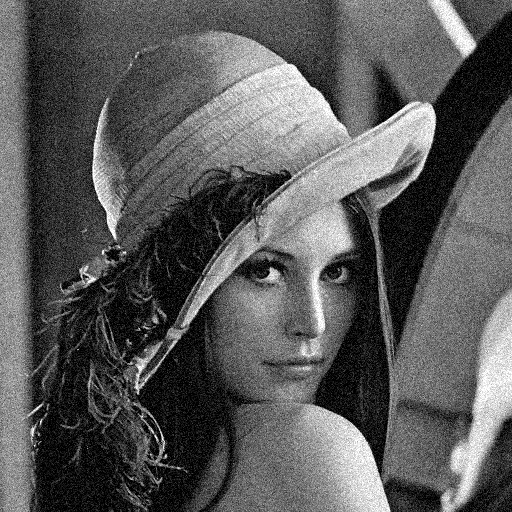
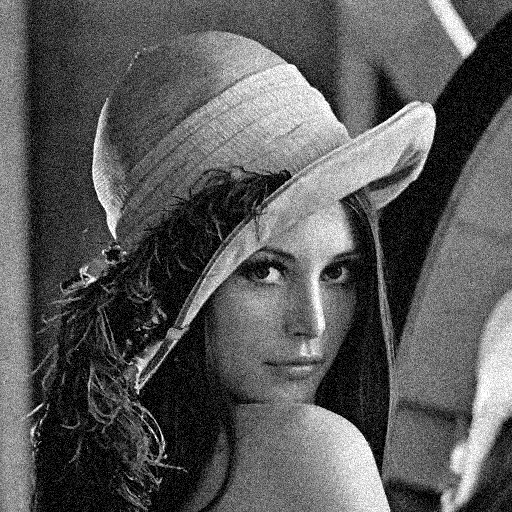
resolution probleme seuillage + evaluation

diff --git a/src/application/Application.java b/src/application/Application.java
@@ -116,9 +116,21 @@ public class Application {
             double mse = eval.mse(x0, xR);
             double psnr = eval.psnr(x0, xR);
             
-            System.out.println("\n=== Résultats d'évaluation ===");
-            System.out.println("MSE : " + mse);
-            System.out.println("PSNR: " + psnr + " dB");
+            System.out.println("\n📊 ÉVALUATION DE LA QUALITÉ 📊");
+     		System.out.println("━━━━━━━━━━━━━━━━━━━━━━━━━━━━━━━━━━━━━━━━━━");
+     		System.out.println("📉 MSE  : " + String.format("%.2f", mse));
+     		System.out.println("📈 PSNR : " + String.format("%.2f", psnr) + " dB");
+
+     		if (psnr < 20) {
+     			System.out.println("🔴 Qualité faible - Débruitage limité");
+     		} else if (psnr < 25) {
+     			System.out.println("🟠 Qualité moyenne - Débruitage acceptable");
+     		} else if (psnr < 30) {
+     			System.out.println("🟢 Bonne qualité - Débruitage efficace");
+     		} else {
+     			System.out.println("🔵 Excellente qualité - Débruitage optimal");
+     		}
+     		System.out.println("━━━━━━━━━━━━━━━━━━━━━━━━━━━━━━━━━━━━━━━━━━");
             
         } catch (Exception e) {
             System.err.println("Erreur lors du traitement: " + e.getMessage());
@@ -145,14 +157,52 @@ public class Application {
          xB.saveImg("data/xB/" + imageName);
 
          // Débruitage GLOBAL
-         Img xRGlobal = dImg.imageDen(xB, "VisuShrink", "Dur", sigma, 7, false);
+         Img xRGlobal = dImg.imageDen(xB, "BayesShrink", "Doux", sigma, 7, false);
          xRGlobal.saveImg("data/xR/global_" + imageName);
+         
+       //Évaluer les résultats
+ 		double mseValue = eval.mse(x0, xRGlobal);
+ 		double psnrValue = eval.psnr(x0, xRGlobal);
+
+ 		System.out.println("\n📊 ÉVALUATION DE LA QUALITÉ 📊");
+ 		System.out.println("━━━━━━━━━━━━━━━━━━━━━━━━━━━━━━━━━━━━━━━━━━");
+ 		System.out.println("📉 MSE  : " + String.format("%.2f", mseValue));
+ 		System.out.println("📈 PSNR : " + String.format("%.2f", psnrValue) + " dB");
+
+ 		if (psnrValue < 20) {
+ 			System.out.println("🔴 Qualité faible - Débruitage limité");
+ 		} else if (psnrValue < 25) {
+ 			System.out.println("🟠 Qualité moyenne - Débruitage acceptable");
+ 		} else if (psnrValue < 30) {
+ 			System.out.println("🟢 Bonne qualité - Débruitage efficace");
+ 		} else {
+ 			System.out.println("🔵 Excellente qualité - Débruitage optimal");
+ 		}
+ 		System.out.println("━━━━━━━━━━━━━━━━━━━━━━━━━━━━━━━━━━━━━━━━━━");
 
          // Débruitage LOCAL
-         Img xRLocal = dImg.imageDen(xB, "VisuShrink", "Doux", sigma, 7, true);
+         Img xRLocal = dImg.imageDen(xB, "BayesShrink", "Doux", sigma, 7, true);
          xRLocal.saveImg("data/xR/local_" + imageName);
 
-         
+       //Évaluer les résultats
+  		mseValue = eval.mse(x0, xRLocal);
+  		psnrValue = eval.psnr(x0, xRLocal);
+
+  		System.out.println("\n📊 ÉVALUATION DE LA QUALITÉ 📊");
+  		System.out.println("━━━━━━━━━━━━━━━━━━━━━━━━━━━━━━━━━━━━━━━━━━");
+  		System.out.println("📉 MSE  : " + String.format("%.2f", mseValue));
+  		System.out.println("📈 PSNR : " + String.format("%.2f", psnrValue) + " dB");
+
+  		if (psnrValue < 20) {
+  			System.out.println("🔴 Qualité faible - Débruitage limité");
+  		} else if (psnrValue < 25) {
+  			System.out.println("🟠 Qualité moyenne - Débruitage acceptable");
+  		} else if (psnrValue < 30) {
+  			System.out.println("🟢 Bonne qualité - Débruitage efficace");
+  		} else {
+  			System.out.println("🔵 Excellente qualité - Débruitage optimal");
+  		}
+  		System.out.println("━━━━━━━━━━━━━━━━━━━━━━━━━━━━━━━━━━━━━━━━━━");
     }
     
     
@@ -337,9 +387,21 @@ public class Application {
             double mse = eval.mse(x0, xR);
             double psnr = eval.psnr(x0, xR);
             
-            System.out.println("\n=== Résultats d'évaluation ===");
-            System.out.println("MSE : " + mse);
-            System.out.println("PSNR: " + psnr + " dB");
+            System.out.println("\n📊 ÉVALUATION DE LA QUALITÉ 📊");
+     		System.out.println("━━━━━━━━━━━━━━━━━━━━━━━━━━━━━━━━━━━━━━━━━━");
+     		System.out.println("📉 MSE  : " + String.format("%.2f", mse));
+     		System.out.println("📈 PSNR : " + String.format("%.2f", psnr) + " dB");
+
+     		if (psnr < 20) {
+     			System.out.println("🔴 Qualité faible - Débruitage limité");
+     		} else if (psnr < 25) {
+     			System.out.println("🟠 Qualité moyenne - Débruitage acceptable");
+     		} else if (psnr < 30) {
+     			System.out.println("🟢 Bonne qualité - Débruitage efficace");
+     		} else {
+     			System.out.println("🔵 Excellente qualité - Débruitage optimal");
+     		}
+     		System.out.println("━━━━━━━━━━━━━━━━━━━━━━━━━━━━━━━━━━━━━━━━━━");
             
         } catch (Exception e) {
             System.err.println("Erreur lors du traitement: " + e.getMessage());

diff --git a/src/service/seuillage/ProcesseurSeuillage.java b/src/service/seuillage/ProcesseurSeuillage.java
@@ -38,13 +38,22 @@ public class ProcesseurSeuillage {
      * @param gamma Matrice contenant des informations sur la covariance des coefficients.
      * @return La valeur du seuil calculée.
      */
-    public double seuilB(Img Xb , double sigma, Matrice gamma) {
-        double sigmaXb = gamma.SommeDiagonale();  //on recupere la variance de l'image Xb sans tout recalculé
-        double sigmaCarre = sigma * sigma;
-        double sigmaXbCarre = sigmaXb * sigmaXb;
-        double sigmaX = Math.max(0.001, Math.sqrt(Math.abs(sigmaXb - sigmaCarre)));
-        return sigmaCarre / (double) sigmaX;
+    public double seuilB(double[] alpha, double sigma) {
+        double varianceBruit = sigma * sigma;
+
+        double mean = 0.0;
+        for (double v : alpha) mean += v;
+        mean /= alpha.length;
+
+        double varY = 0.0;
+        for (double v : alpha) varY += (v - mean) * (v - mean);
+        varY /= alpha.length;
+
+        double varianceSignal = Math.max(varY - varianceBruit, 1e-6);
+
+        return varianceBruit / Math.sqrt(varianceSignal);
     }
+
     
 
     /**
@@ -90,41 +99,39 @@ public class ProcesseurSeuillage {
     }
     
     public ResultatVecteur seuillage(ResultatVecteur alphaProj, String typeSeuil, String fonctionSeuillage, double sigma, Img xB, Matrice gamma) {
-        double lambda = 0.0;
+        double lambdaGlobal = 0.0;
+        boolean isBayes = false;
 
-        // Calcul du seuil selon le type
         if (typeSeuil.equalsIgnoreCase("VisuShrink")) {
-            lambda = seuilV(xB, sigma);
-            System.out.println("💠 Seuillage VisuShrink: λ = " + String.format("%.4f", lambda));
+            lambdaGlobal = seuilV(xB, sigma);
+            System.out.println("💠 Seuillage VisuShrink: λ = " + String.format("%.4f", lambdaGlobal));
         } else if (typeSeuil.equalsIgnoreCase("BayesShrink")) {
-            lambda = seuilB(xB, sigma, gamma);
-            System.out.println("💠 Seuillage BayesShrink: λ = " + String.format("%.4f", lambda));
+            isBayes = true; // on utilisera seuilB(alpha_i, sigma) dans la boucle
+            System.out.println("💠 Seuillage BayesShrink adaptatif par vecteur");
         } else {
             throw new IllegalArgumentException("Type de seuil non reconnu : " + typeSeuil);
         }
 
-        // Appliquer le seuillage sur tous les vecteurs alpha
         ResultatVecteur resSeuil = new ResultatVecteur();
 
         for (int i = 0; i < alphaProj.taille(); i++) {
             double[] alphaValues = alphaProj.getVecteurs().get(i).getValeurs();
+            double lambda = isBayes ? seuilB(alphaValues, sigma) : lambdaGlobal;
 
-            // Appliquer la fonction de seuillage choisie
             if (fonctionSeuillage.equalsIgnoreCase("Dur")) {
-                alphaValues = seuillageDur(lambda, alphaValues.clone()); // clone pour ne pas modifier l'original
+                alphaValues = seuillageDur(lambda, alphaValues.clone());
             } else if (fonctionSeuillage.equalsIgnoreCase("Doux")) {
                 alphaValues = seuillageDoux(lambda, alphaValues.clone());
             } else {
                 throw new IllegalArgumentException("Fonction de seuillage non reconnue : " + fonctionSeuillage);
             }
 
-            // Ajout du vecteur seuillé dans le résultat
             resSeuil.ajouterVecteur(new Vecteur(alphaValues), alphaProj.getPositions().get(i));
         }
-        
 
         return resSeuil;
     }
+
 
    
     

diff --git a/src/service/debruitage/DebruiteurImage.java b/src/service/debruitage/DebruiteurImage.java
@@ -262,25 +262,7 @@ public class DebruiteurImage {
 		Img imgResult = modeLocal ? debruiterLocal(xB, typeSeuil, fonctionSeuillage, sigma, taillePatch)
 				: debruiterGlobal(xB, typeSeuil, fonctionSeuillage, sigma, taillePatch);
 
-		//Évaluer les résultats
-		double mseValue = evaluationQualite.mse(xB, imgResult);
-		double psnrValue = evaluationQualite.psnr(xB, imgResult);
-
-		System.out.println("\n📊 ÉVALUATION DE LA QUALITÉ 📊");
-		System.out.println("━━━━━━━━━━━━━━━━━━━━━━━━━━━━━━━━━━━━━━━━━━");
-		System.out.println("📉 MSE  : " + String.format("%.2f", mseValue));
-		System.out.println("📈 PSNR : " + String.format("%.2f", psnrValue) + " dB");
-
-		if (psnrValue < 20) {
-			System.out.println("🔴 Qualité faible - Débruitage limité");
-		} else if (psnrValue < 25) {
-			System.out.println("🟠 Qualité moyenne - Débruitage acceptable");
-		} else if (psnrValue < 30) {
-			System.out.println("🟢 Bonne qualité - Débruitage efficace");
-		} else {
-			System.out.println("🔵 Excellente qualité - Débruitage optimal");
-		}
-		System.out.println("━━━━━━━━━━━━━━━━━━━━━━━━━━━━━━━━━━━━━━━━━━");
+		
 
 		return imgResult;
 	}

diff --git a/src/service/evaluation/EvaluationrQualite.java b/src/service/evaluation/EvaluationrQualite.java
@@ -45,10 +45,12 @@ public class EvaluationrQualite {
      */
     public double psnr(Img X0, Img Xr) {
         double mse = mse(X0, Xr);
-        double inv_mse = 255 * 255 / mse; 
-        double psnr = 10 * Math.log10(inv_mse);
-        return psnr;
+        if (mse == 0) {
+            return Double.POSITIVE_INFINITY; // Images identiques
+        }
+        return 10 * Math.log10((255 * 255) / mse);
     }
+
 }
 
 
